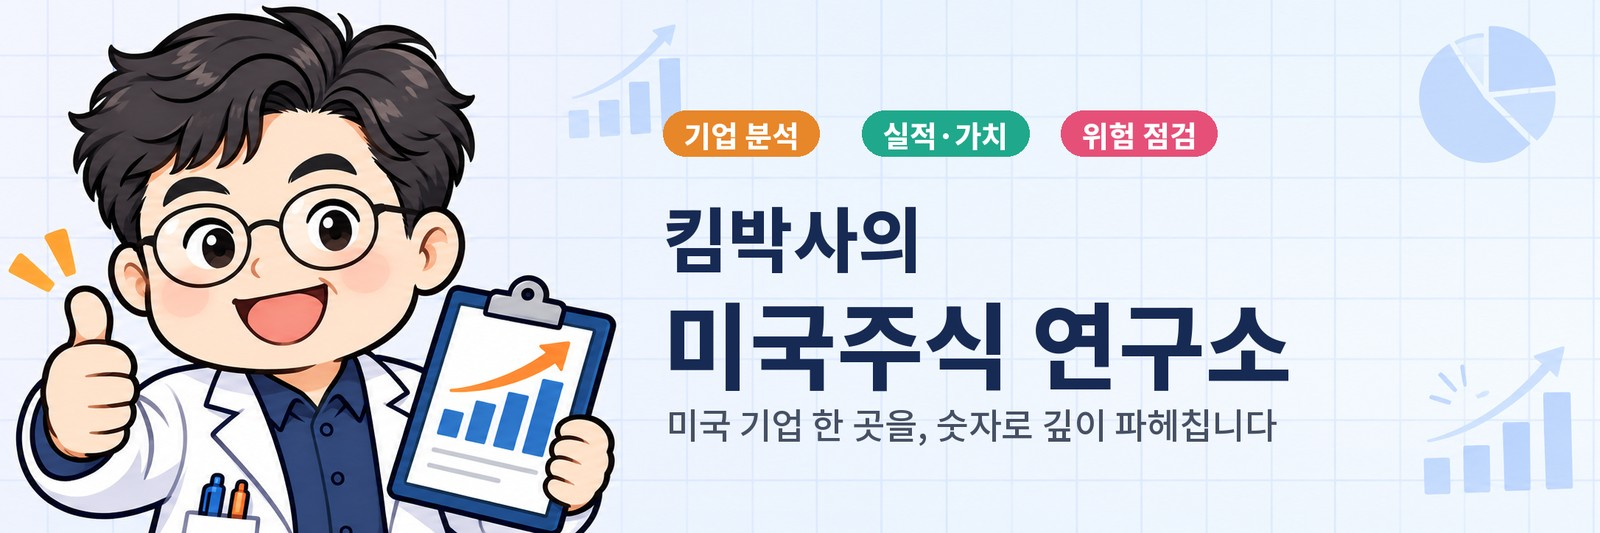
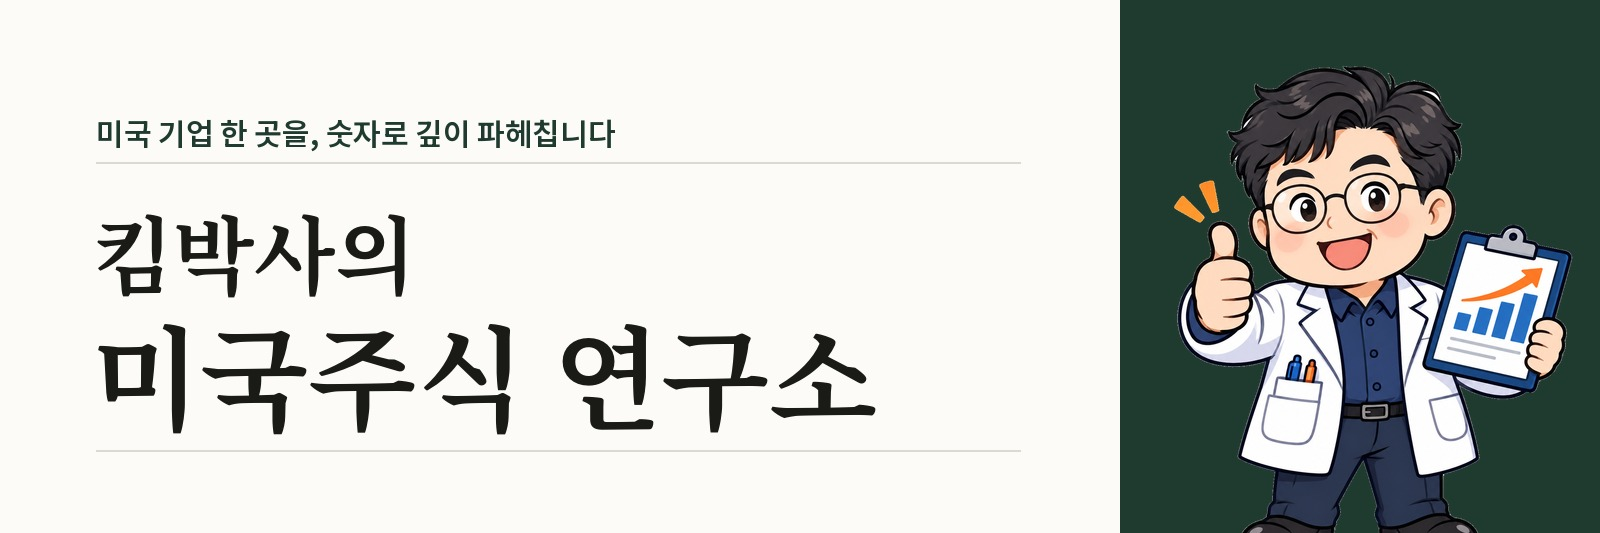
POWL: pull quotes, header image
Claude-Session: https://claude.ai/code/session_01SAkGGq49NjtzuSRspft9Av

diff --git a/usk/src/powl-post.html b/usk/src/powl-post.html
@@ -276,6 +276,8 @@
 
 <p>ROIC 40%는 제조업에서 보기 드문 숫자다. 고객 선수금 덕분에 회사 돈을 많이 넣지 않고도 큰 프로젝트를 돌릴 수 있기 때문이다. 공장도 대부분 이미 갖고 있어서 새로 들어가는 돈이 적다.</p>
 
+<blockquote class="pull">다만 이 숫자는 호황의 숫자라는 점을 기억해야 한다. 2021 회계연도 영업이익률은 0.2%였다. 같은 회사가 5년 만에 100배 가까운 이익률을 내고 있다.</blockquote>
+
 <p>지금의 높은 수익성이 공급 부족이 만든 일시적인 가격 협상력에서 나왔다면, 공급이 늘어날 때 다시 내려올 수 있다. 이 질문은 뒤의 경쟁사 증설 이야기와 연결된다.</p>
 
 <p class="kick">09</p>
@@ -483,6 +485,8 @@
 <p>2년 만에 매출이 40% 줄고, 수주잔고는 43% 줄었다. 회사는 2년 연속 적자를 냈다. 당시 고객들은 투자 예산을 줄이고, 진행 중이던 프로젝트를 미루거나 취소했다.</p>
 
 <p>지금은 그때보다 고객이 훨씬 다양하다. 석유·가스 한 업종에 기대던 회사가 데이터센터, 전력회사, LNG로 나뉘었다. 현금도 그때보다 훨씬 많다. 그래도 교훈은 분명하다.</p>
+
+<blockquote class="pull">수주잔고는 영원하지 않고, 신규 주문이 꺾이면 1~2년 뒤 실적이 따라 꺾인다. 그래서 이 회사를 지켜볼 때는 매출보다 신규 주문을 먼저 봐야 한다.</blockquote>
 
 <h3>지금은 사이클의 어디쯤인가</h3>
 
@@ -721,6 +725,8 @@
 <p>파월 인더스트리는 <b>AI 붐의 "곡괭이와 삽"에 해당하는 회사</b>다. 데이터센터, LNG, 전력망이라는 서로 다른 세 수요가 동시에 몰리면서 79년 만에 가장 좋은 시기를 보내고 있다. 빚이 없고, 현금이 넘치며, ROIC는 40%에 이른다. 경영진은 말보다 숫자로 보여줬다.</p>
 
 <p>다만 좋은 기업과 좋은 투자 대상은 다르다. 현금과 내년 이익까지 반영해도 지금 주가는 이익의 22~23배이고, 보수적으로 계산하면 기업 가치보다 아직 조금 높다. 큰 경쟁사들은 2027년부터 새 공장을 돌리고, 애널리스트들은 사업은 좋게 보면서도 목표주가를 계속 낮추고 있다. 그리고 이 회사는 2016~2018년에 매출 40% 감소를 겪은, 본질적으로 경기를 타는 수주 산업이다.</p>
+
+<blockquote class="pull">지금의 이익이 "새로운 평균"인지, "사이클의 꼭대기"인지. 앞으로 이 회사를 판단하는 핵심 질문은 이것 하나다.</blockquote>
 
 <p>지금의 데이터센터 전력 투자는 10년 가는 흐름일까, 2~3년짜리 붐일까? 각자의 생각을 댓글로 나눠 보자.</p>
 
